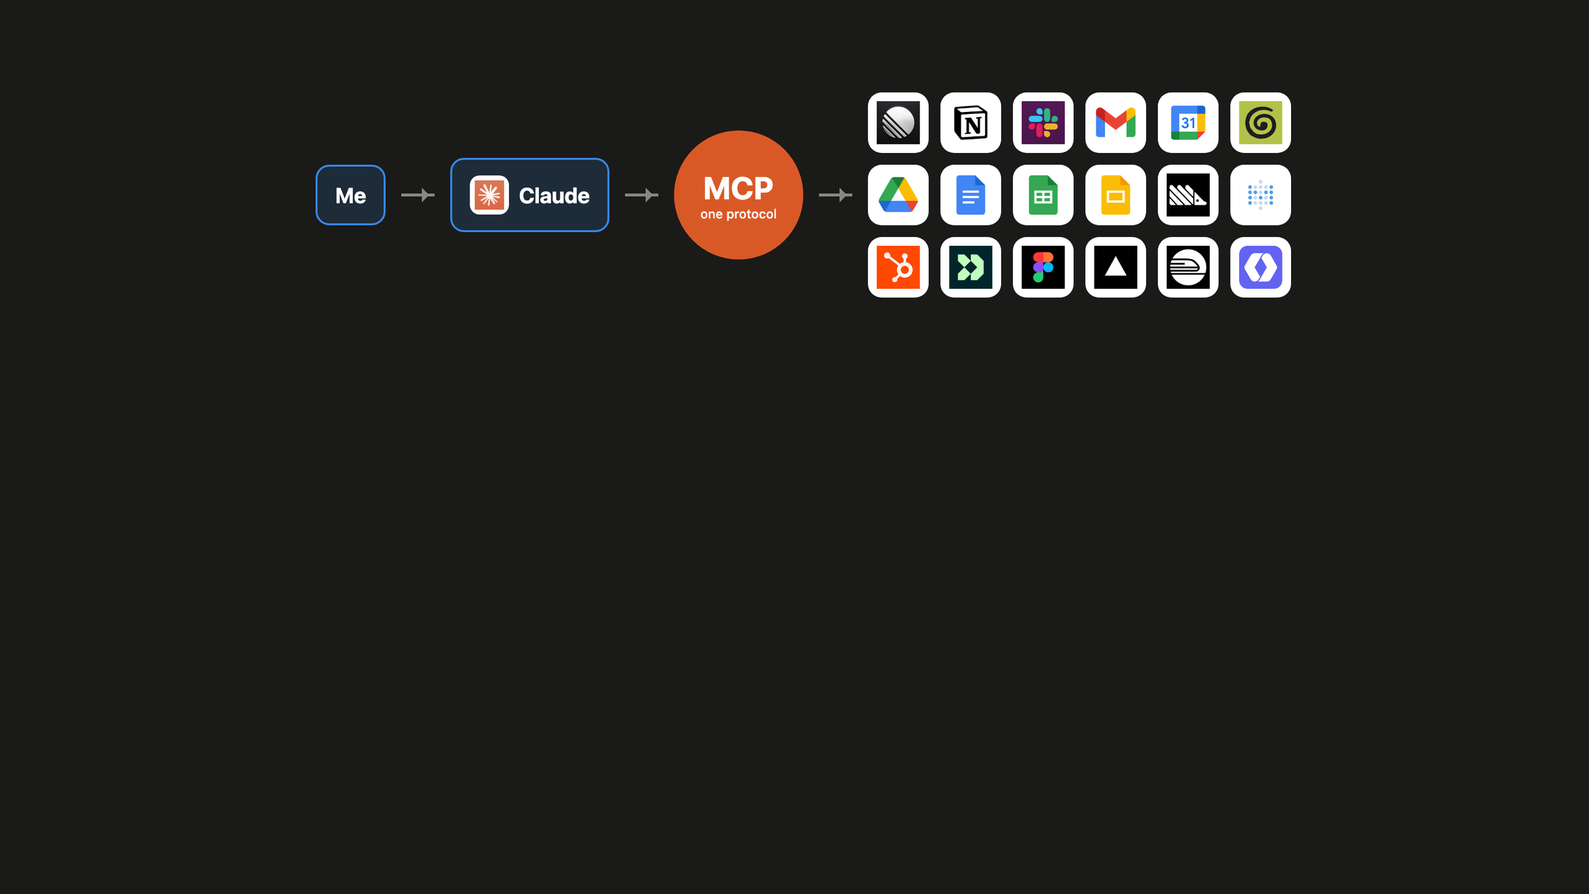
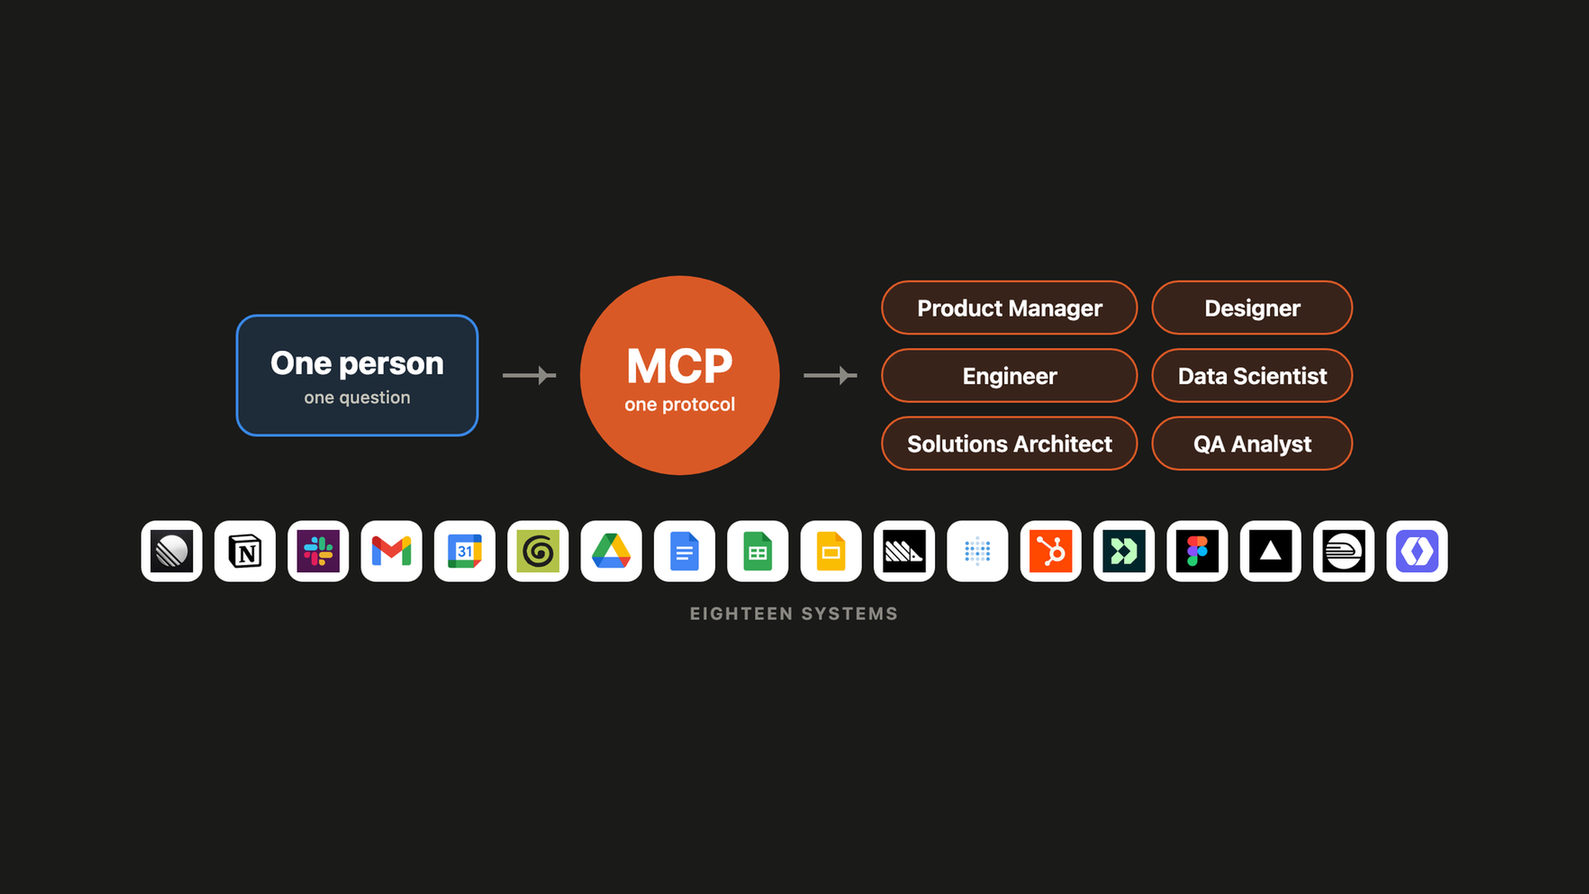
Writing: The Power of MCPs as a story, six hats, new visuals and thumbnail, link to the case study

Changed region(s): [[0.125, 0.0933, 0.875, 0.5289], [0.0625, 0.56, 0.9375, 0.7156], [0.1875, 0.1867, 0.25, 0.2489]]

diff --git a/app/writing/content/the-power-of-mcp.html b/app/writing/content/the-power-of-mcp.html
@@ -8,11 +8,17 @@
 
 <p>That was my first date with the Model Context Protocol, MCP to its friends. It went badly. I pulled the transcript with four lines of Python instead and sulked.</p>
 
-<p>I am now completely, embarrassingly in love with it. I also think it is rewriting job descriptions faster than any model release has, mine included.</p>
+<p>I am now completely, embarrassingly in love with it. It has also turned my one job into six, which is the part I did not see coming.</p>
+
+<h2>I used to be the cable</h2>
+
+<p>I run product operations at a UK startup, from Dhaka, which means most of my meetings land in my evening. I am the entire function: no dedicated engineer, and about 28 hours a week of real project time once those meetings have eaten their share.</p>
+
+<p>My work lives in eighteen systems. Tickets in one, customers in another, calls in a third, the numbers that explain all of it somewhere else again. For years I was the cable between them. Every Monday before my 1:1, I carried context from tab to tab like a waiter with too many plates.</p>
+
+<p>Each of those trips was a small act of copy and paste. So it was a strange comfort to learn that the protocol which failed me over a YouTube video was invented by a man with exactly the same complaint.</p>
 
 <h2>It started with a man tired of Ctrl+C</h2>
-
-<p>Every great piece of infrastructure begins with somebody being annoyed.</p>
 
 <p>In 2024, David Soria Parra was an engineer at Anthropic, asked to get more of his colleagues using AI. He kept hitting the same wall. The model was clever, but it lived, in his words, "kind of put into a jar." It could not reach the code, the documents or the error logs. So he did what all of us were doing: copy from the tool, paste into the chat, copy the answer, paste it back. All day. Like a very well-paid clipboard.</p>
 
@@ -20,7 +26,7 @@
 
 <p>I need to pause here, because I laughed out loud when I read that. Months ago I wired HubSpot into my own setup through a private app token, and with zero imagination I named it "claude connect." The inventor of the protocol and I independently arrived at the same lazy name. Mine still exists. His, thankfully, did not survive.</p>
 
-<p>Because when he took it to his colleague Justin Spahr-Summers, they worked out that an app was the wrong shape. The problem was many AI clients needing to reach many systems. That calls for a protocol, a shared language, the way every website speaks HTTP without asking permission from the others. The first version was tiny: a client starts a program and talks to it, and the program offers three things, tools, resources and prompts. They showed it at an internal hack week and colleagues started building servers for their own workflows almost at once, which is the only product research that really counts.</p>
+<p>When he took it to his colleague Justin Spahr-Summers, they worked out that an app was the wrong shape. The problem was many AI clients needing to reach many systems, and that calls for a protocol, a shared language, the way every website speaks HTTP without asking the others for permission. The first version was tiny: a client starts a program and talks to it, and the program offers tools, resources and prompts. They showed it at an internal hack week and colleagues began building servers for their own workflows almost at once, which is the only product research that really counts.</p>
 
 <p>On 25 November 2024, Anthropic open-sourced it. Then things got silly.</p>
 
@@ -29,22 +35,18 @@
   <figcaption>Thirteen months from launch to "nobody owns this any more." Standards normally take a decade and at least one lawsuit.</figcaption>
 </figure>
 
-<h2>Then the rivals said yes</h2>
+<p>On 26 March 2025, Sam Altman posted that "people love MCP" and that OpenAI would support it across its products. Two weeks later Demis Hassabis said Google would add it to Gemini, and in May Microsoft announced it was building the protocol into Windows 11. These companies agree on almost nothing. It is like Coke shipping in Pepsi's bottle because, frankly, it is a good bottle.</p>
 
-<p>On 26 March 2025, Sam Altman posted that "people love MCP" and that OpenAI would support it across its products. Two weeks later, on 9 April, Demis Hassabis said Google would add it to Gemini. On 19 May, Microsoft announced it was building the protocol into Windows 11 at its Build conference.</p>
+<p>In December 2025, Anthropic gave the protocol away entirely, donating it to a new foundation under the Linux Foundation. It launched with 49 members and had 286 by October 2026. A standard one vendor owns is a product. A standard nobody owns is a road.</p>
 
-<p>These companies agree on almost nothing. It is like Coke shipping in Pepsi's bottle because, frankly, it is a good bottle.</p>
-
-<p>Then in December 2025, Anthropic gave the protocol away entirely, donating it to a new Agentic AI Foundation under the Linux Foundation, alongside projects from OpenAI and Block. The foundation launched with 49 members. By October 2026 it had 286. A standard one vendor owns is a product. A standard nobody owns is a road.</p>
-
-<p>The economics are the reason it spread, and my degree is in economics, so indulge me for one picture.</p>
+<p>My degree is in economics, so indulge me for one picture of why it spread.</p>
 
 <figure>
   <img src="/writing/the-power-of-mcp/mcp-nxm.png" alt="Left: 54 tangled point-to-point integrations between 18 tools and 3 AI clients. Right: the same tools and clients joined through one hub, 21 connections.">
   <figcaption>My real setup. Nobody was ever going to build me 54 bridges. Twenty-one, apparently, the market will do for free.</figcaption>
 </figure>
 
-<p>Before a standard, every AI app needs a custom bridge to every tool. Eighteen tools times three clients is 54 integrations, each built and broken separately. With a standard, each side plugs in once: 18 plus 3 is 21. Multiplication becomes addition, and the thing that was uneconomic for one person becomes free.</p>
+<p>Before a standard, every AI app needs a custom bridge to every tool. Eighteen tools times three clients is 54 integrations, each built and broken separately. With a standard, each side plugs in once, and 18 plus 3 is 21. Multiplication becomes addition, and something that was uneconomic for one person becomes free.</p>
 
 <p>The numbers that followed are slightly unhinged.</p>
 
@@ -52,11 +54,11 @@
   <img src="/writing/the-power-of-mcp/mcp-downloads.png" alt="Bar chart of monthly npm downloads of the MCP TypeScript SDK: 0.1 million in December 2024, 31.3 million in September 2025, 38.5 million in December 2025, 231.9 million in September 2026.">
 </figure>
 
-<p>The official registry of servers tells the same story: about 2,000 listed in November 2025, 47,879 by October 2026. Roughly one new server every 4 minutes through September 2026. Some of them even work.</p>
+<p>The official registry of servers went from about 2,000 in November 2025 to 47,879 by October 2026, roughly one new server every 4 minutes through September. Some of them even work.</p>
 
-<h2>What everyone is actually doing with it</h2>
+<h2>The mechanics are almost boring</h2>
 
-<p>The mechanics are almost boring, which is the highest compliment you can pay infrastructure.</p>
+<p>That is the highest compliment you can pay infrastructure.</p>
 
 <figure>
   <img src="/writing/the-power-of-mcp/mcp-anatomy.png" alt="Five steps: I ask, the model reads the menu of tools, the model picks a tool, the server does the work against the real system, the answer comes back.">
@@ -64,71 +66,81 @@
 
 <p>A server sits in front of a system and publishes a menu: here are my tools, here is what each one does, here is what it needs. The model reads the menu and orders. Most of the craft in a good server is writing descriptions a model can understand, which is a strange thing to say about software and I enjoy it every time.</p>
 
-<p>Engineers got there first. The error from Sentry, the ticket from Linear and the failing deployment now arrive in the code editor, which is where the code already was.</p>
-
-<p>Then it leaked out of engineering. "Did that release move the number?" used to be a ticket to the data team and a wait. Now it is a sentence. That sounds like bad news for the data team until you look at what they get asked once the lookups are gone, which is the hard stuff. A promotion disguised as a threat.</p>
-
-<p>Companies noticed.</p>
+<p>Companies noticed quickly.</p>
 
 <figure>
   <img src="/writing/the-power-of-mcp/mcp-enterprise.png" alt="Survey of 100 software companies: 45% running MCP servers in production, 30% piloting, 49% call it a top-5 priority, 64% say security is the top obstacle.">
   <figcaption>Three in four running or piloting it. Two in three nervous. Hold that second number, we are coming back to it.</figcaption>
 </figure>
 
-<h2>Five hats, one head</h2>
+<h2>Six hats, one head</h2>
 
-<p>I run product operations at a UK startup. I am the entire function: no dedicated engineer, about 28 hours a week of real project time once meetings have eaten their share. My work lives in eighteen systems, and for years I was the cable between them. Every Monday before my 1:1, I carried context from tab to tab like a waiter with too many plates.</p>
-
-<p>This is the wiring today, copied out of my configuration file. No vendor slide was harmed.</p>
+<p>So I went back for a second date. This is my wiring today, copied out of my configuration file. No vendor slide was harmed.</p>
 
 <figure>
   <img src="/writing/the-power-of-mcp/mcp-setup.png" alt="Flow chart: one question goes from me, through Claude Code, the Claude app or Codex, into a single MCP hub, then fans out to 20 servers grouped by job: plan and track (Linear, Notion), talk and meet (Slack, Gmail, Calendar, Granola), files (Drive, Docs, Sheets, Slides), measure (PostHog, Metabase), customers (HubSpot, Customer.io), design and ship (Figma, Vercel, Railway, WorkOS), plus two local YouTube servers on my laptop. A dashed line carries the answer back to me. Three rules sit underneath: reads are wired up freely, writes wait for my yes, numbers are checked against the system of record.">
   <figcaption>Eighteen hosted connectors I signed into once, plus two small servers on my laptop. Yes, the YouTube one is still there. We have made our peace.</figcaption>
 </figure>
 
-<p>Notice what the picture does not contain: me, in the middle, holding a clipboard. The three boxes along the bottom are rules I paid for. We will get to them.</p>
+<p>Notice what the picture does not contain: me, in the middle, holding a clipboard. The three boxes along the bottom are rules I paid for, and we will get to them.</p>
 
-<p>With those eighteen systems wired in over MCP, the cable job went away. What surprised me was what filled the space. I did not get faster at one job. I started doing five.</p>
+<p>With those systems wired in, the cable job went away. What surprised me was what filled the space. I did not get faster at one job. I started doing six.</p>
 
 <figure>
-  <img src="/writing/the-power-of-mcp/mcp-hats.png" alt="Five cards, one per role: Product Manager, Data Scientist, Data Architect and Engineer, QA Analyst, Solutions Architect, each with the artefact shipped and its headline number.">
+  <img src="/writing/the-power-of-mcp/mcp-hats.png" alt="Six cards, one per role: Product Manager, Data Scientist, Data Architect and Engineer, QA Analyst, Solutions Architect, Designer, each with the artefact shipped and its headline number.">
 </figure>
 
-<p><strong>Product manager.</strong> The day job. The connectors read tickets, docs and threads so that I can spend my time on the decision. The best output was a 15-slide business case showing our service team was handling 2.8 times the customer moves it handled in January with the same nine or so agents, and that automating the rest would avoid £100,000 to £175,000 a year in hires that never need to be made.</p>
+<p><strong>Product manager.</strong> The day job. The connectors read the tickets, docs and threads so that I can spend my time on the decision. The best output was a 15-slide business case showing our service team was handling 2.8 times the customer moves it handled in January with the same nine or so agents, and that automating the rest would avoid £100,000 to £175,000 a year in hires that never need to be made.</p>
 
 <p><strong>Data scientist.</strong> A partner's conversion rate fell from about 17% to 11.8% and the room wanted a villain. Pulling the cohorts apart showed roughly 3.5 points of that was maturation, customers who simply had not finished converting yet, and only 1.5 to 2 points was real. My favourite piece of analysis this year was a recommendation to <em>not</em> run an A/B test: at about 3,815 sends and 33 conversions it could never reach significance. Knowing when not to experiment is half the discipline.</p>
 
-<p><strong>Data architect and engineer.</strong> Our phone team is the company's largest revenue source. Its funnel reporting was handed to me on 8 June. By 17 June there was a live board over 1.4 million call records, drawn from three databases that cannot be joined directly, reconciled to the team's reference sheet within about 0.1%. Nine days. One of them was spent discovering that a self-referencing key made the query builder politely return zero rows. An <code>[object Object]</code> in a nicer suit.</p>
+<p><strong>Data architect and engineer.</strong> Our phone team is the company's largest revenue source. Its funnel reporting was handed to me on 8 June. By 17 June there was a live board over 1.4 million call records, drawn from three databases that cannot be joined directly, reconciled to the team's reference sheet within about 0.1%. Nine days. One of them went on discovering that a self-referencing key made the query builder politely return zero rows. An <code>[object Object]</code> in a nicer suit.</p>
 
 <p><strong>Quality assurance analyst.</strong> After building ticket classification, I did not take its word for it. A retro-sweep scanned 4,773 tickets and updated 3,150 with zero errors, and a hand-checked sample put precision around 94%. A separate audit found four live email campaigns with no conversion goal set at all. One had a 60.1% open rate and, officially, 0% conversion. It was doing brilliantly and nobody could prove it.</p>
 
 <p><strong>Solutions architect.</strong> The service team now runs on instrumented ticketing with 11 classification workflows, designed and built inside software the company already paid for. New spend: £0.</p>
 
-<p>None of these are jobs I was hired to do separately. A few years ago each one was a different person, a different queue and a different two-week wait. The honest description of what MCP did is that it deleted the queues between my own hats.</p>
+<p>A few years ago each of those was a different person, a different queue and a different two-week wait. What MCP did, honestly described, is delete the queues between my own hats.</p>
+
+<p>The sixth hat arrived in October, and it came with a story.</p>
 
 <h2>Then all of them at once</h2>
 
-<p>Everything above was one hat at a time. The newest thing I built needed every one of them in the same week.</p>
+<p>Our quality team scores sales calls against compliance scorecards. The scoring lived inside the company's core system, where changing a single question or weighting meant waiting for engineering time, and the list of changes waiting was long. The analysts scored seven or eight calls a day each, by hand.</p>
 
-<p>Our quality team scores sales calls against compliance scorecards. The scoring lived inside the company's core system, where changing a question or a weighting meant waiting for engineering time, and the list of changes waiting was long. The analysts scored seven or eight calls a day each, by hand.</p>
+<p>On 15 October the person who runs that team walked me through the problem, and I agreed to find a way out.</p>
 
-<p>On 15 October I was asked to scope a way out. By 28 October a like-for-like copy was live, and it re-scored 1,281 of the old system's 1,281 reviews to exactly the same result. Then a session with the quality team on 5 November showed me it had copied the old system but not their working day. On 6 November I demoed the version built around that day, about 48 hours of building. This week it is running side by side with the old system, and every page carries a banner saying so.</p>
+<p>I did the careful thing first. I copied the old tool exactly, rounding quirks included, and by 28 October the copy was live. Then I made it re-score every review in the old system. All 1,281 came back with the same score and the same result. By any test I could write, it was finished.</p>
 
-<p>It opens on the one call you should score next, chosen because that agent is furthest under their monthly minimum of five reviews. Scoring is done from the keyboard: Y, N or A answers a question and moves to the next, J and K step down and up. Behind that sit 15 scorecards holding more than 240 questions, a log of every review, a heat map of which agents miss which criteria, a challenge window that closes on the 5th of the following month, and scores that lock on the 9th. The guide is a six-minute narrated video in 24 chapters.</p>
+<p>On 5 November I sat in on a session where one of the analysts walked the team through a dashboard they had built on top of a spreadsheet. That sheet was where the real work lived: the daily and weekly targets, which agents each analyst covered, what each agent kept missing, typed in by hand beside the tool I had so carefully reproduced.</p>
 
-<p>Two decisions do not show up in a demo. Customer names are read live from the core system when a page opens and are never stored. And the notes box refuses emails, phone numbers and postcodes.</p>
+<p>My copy had reproduced the system. It had not reproduced the job.</p>
 
-<p>People sign in with their company Google account. Calls and recordings refresh every 15 minutes, read from the core system through Metabase. It runs on Railway, in the same project as the call board from two hats ago.</p>
+<p>So I built the job. The next 48 hours were the busiest of the whole project, and Railway kept the receipts.</p>
 
-<p>Count the systems in that. The requirements came out of meeting notes in Granola. The tickets are in Linear. The brief was a Google Doc and the scorecard a Google Sheet. The data arrives through Metabase and the thing lives on Railway. Six of the eighteen, one product.</p>
+<figure>
+  <img src="/writing/the-power-of-mcp/mcp-deploys.png" alt="Bar chart of deployments per day: 3 on 28 October, 3 on 5 November, 14 on 6 November, 10 on 9 November, 4 on 13 November. 34 in total.">
+  <figcaption>Fourteen deployments on 6 November. I demoed it at 9:45 that Friday night, Dhaka time.</figcaption>
+</figure>
 
-<p>Railway keeps the receipts. I deployed it 34 times between 28 October and 13 November, and 14 of those were on demo day.</p>
+<p>The version I showed that night opens on the one call you should score next, chosen because that agent is furthest under their monthly minimum of five reviews. Scoring happens from the keyboard: Y, N or A answers a question and moves on, J and K step down and up. Behind that sit 15 scorecards holding more than 240 questions, a heat map of which agents miss which criteria, a challenge window that closes on the 5th of the following month, and scores that lock on the 9th.</p>
+
+<figure>
+  <img src="/writing/the-power-of-mcp/mcp-compliance-home.jpg" alt="The analyst home screen of the compliance tool on demo data: the next call to score, progress against daily and weekly targets, and the queue of calls.">
+  <figcaption>The home screen, on demo data. The spreadsheet, more or less, with a Start button.</figcaption>
+</figure>
+
+<p>Two decisions never show up in a demo. Customer names are read live from the core system when a page opens and are never stored. And the notes box refuses emails, phone numbers and postcodes.</p>
+
+<p>Now count the systems in that story. The requirements came out of meeting notes in Granola. The tickets are in Linear. The brief was a Google Doc and the scorecard a Google Sheet. The data arrives through Metabase and the whole thing lives on Railway. Six of the eighteen, one product.</p>
 
 <p>No other person touched it. I wrote the requirements, decided the screens and the data model, and approved every deploy, with Claude Code doing the typing. That is a product manager, a designer, an engineer, a data person and an architect, and none of them had to book a meeting with the others.</p>
 
-<p>Designer, by the way, is not on the chart above. Somebody had to decide where the buttons go.</p>
+<p>Designer was the hat I had not counted. Somebody had to decide where the buttons go.</p>
 
-<p>It has not replaced anything yet. The two systems run in parallel until the new one has earned the switch. The obvious next step, letting a model score the calls, will run alongside the human reviewers until it agrees with them at least 95% of the time. Until then, people score the calls.</p>
+<p>It has not replaced anything yet. The two systems run side by side until the new one has earned the switch, and every page carries a banner saying so. The obvious next step, letting a model score the calls, will run alongside the human reviewers until it agrees with them at least 95% of the time. Until then, people score the calls.</p>
+
+<p>I wrote the whole build up separately, with a scorecard you can try and the six-minute walkthrough: <a href="https://qa-compliance-platform.vercel.app" target="_blank" rel="noopener">QA Compliance Platform</a>.</p>
 
 <h2>Where it bites</h2>
 
@@ -154,11 +166,9 @@
 
 <p>The World Economic Forum expects 170 million roles created and 92 million displaced by 2030. People quote whichever half matches their mood. Both are true.</p>
 
-<p>PwC read more than a billion job adverts and found roles asking for AI skills growing about eight times as fast as the rest, with an advertised wage premium of 62%. The same report found junior roles in AI-exposed fields are seven times as likely to ask for skills that used to be expected of seniors.</p>
+<p>PwC read more than a billion job adverts and found roles asking for AI skills growing about eight times as fast as the rest, with an advertised wage premium of 62%. The fine print matters: a separate Payscale survey found 55% of employers pay nothing extra for those skills. The premium is advertised. Collect it in writing.</p>
 
-<p>The fine print matters: a separate Payscale survey found 55% of employers pay nothing extra for AI skills. The premium is advertised. Collect it in writing.</p>
-
-<p>I read that one twice. The job description is getting wider. Fewer adverts want a product manager, or a data scientist, or an architect. More of them want whoever can be each of those as the afternoon requires, and who knows enough about each to check the work.</p>
+<p>The line that stayed with me is a different one. In AI-exposed fields, junior roles are seven times as likely to ask for skills that used to be expected of seniors. The job description is getting wider. Fewer adverts want a product manager, or a data scientist, or an architect. More of them want whoever can be each of those as the afternoon requires, and who knows enough about each to check the work.</p>
 
 <p>The checking is where I would put my money. MCP gave me reach and no judgement whatsoever. I could wear the data scientist's hat because I spent years being one, and even then I put 95.5% on a board. The protocol removed the waiting. What was left was exactly as good as the person asking.</p>
 
@@ -166,9 +176,9 @@
 
 <p>For two years we argued about which model was smartest. In my working week the model has not been the bottleneck for a long time. The wiring was.</p>
 
-<p>Soria Parra's model in a jar was never short of intelligence. It was short of a way out. Now that it has one, my job title tells you less about my week than the number of hats I can wear well.</p>
+<p>Soria Parra's model in a jar had all the intelligence it needed and no way out. Now that it has one, my job title tells you less about my week than the number of hats I can wear well.</p>
 
-<p>I counted five hats when I started writing this. The compliance tool made it six, and I doubt it stops there.</p>
+<p>I count six. I am fairly sure there is a seventh.</p>
 
 <p>How many tabs do you have open right now, and how many of them are you only there to copy from?</p>
 

diff --git a/app/writing/articles.ts b/app/writing/articles.ts
@@ -29,7 +29,7 @@ export const articles: Article[] = [
       "MCPs let you wear many hats at one job: Product Manager, Designer, Engineer, Data Scientist, Solutions Architect.",
     topic: "AI · Product · Careers",
     date: "November 2026",
-    readTime: "13 min read",
+    readTime: "12 min read",
     excerpt:
       "An AI tool once answered every question I asked with the same fifteen characters. A year on, eighteen systems are wired into one protocol, the cable job is gone, and I wear six hats. Where MCP came from, how it spread, what it changed, and what it means for the jobs market.",
     color: "#fb923c",
